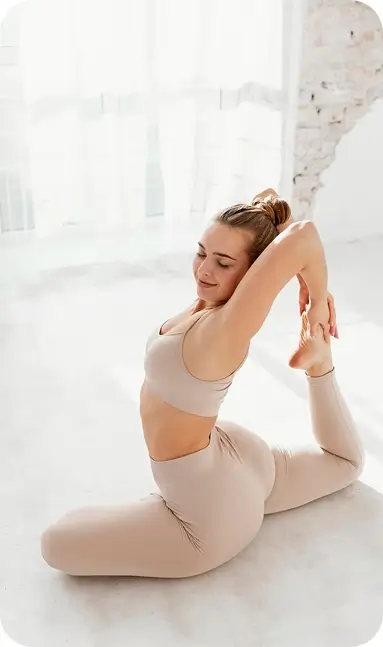
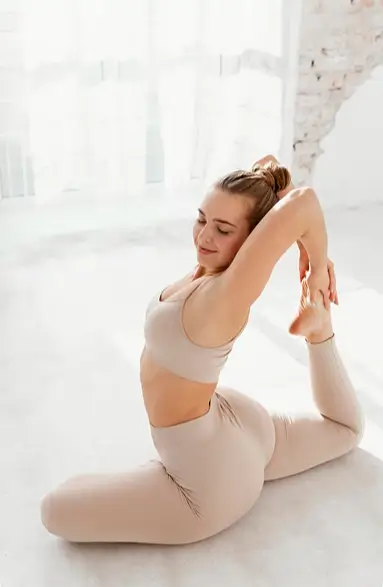
[UX/UI] - Measurement corrections in the layout

diff --git a/components/ui/HomeHero/HomeHeroOn/HomeHeroOn.tsx b/components/ui/HomeHero/HomeHeroOn/HomeHeroOn.tsx
@@ -1,26 +1,38 @@
 "use client";
-import Image from 'next/image';
-import React from 'react';
-import { BtnRound } from '../../buttons/BtnRound';
-import { TitleSection } from '../../TitleSection';
-import { TextSection } from '../../TextSection';
+import Image from "next/image";
+import React from "react";
+import { BtnRound } from "../../buttons/BtnRound";
+import { TitleSection } from "../../TitleSection";
+import { TextSection } from "../../TextSection";
 
 /* export type HomeHeroOnProps = {
       // types...
 } */
 
-const HomeHeroOn: React.FC = ({ }) => {
-      return (
-            <section className=" relative grid grid-cols-1 sm:grid-cols-2 justify-items-center  sm:justify-items-start gap-5  pt-12 sm:pt-30  ">
-                  <TitleSection text=' &ldquo;Uniting the Body, Mind, and Spirit Through the Practice of Yoga&rdquo; ' className='absolute z-2000 sm:self-center sm:static top-20' />
-                  <TextSection text=' Yoga is a multifaceted discipline that encompasses physical, mental, and spiritual aspects. It is based on the concept of the interconnectedness of body, mind, and spirit, and aims to promote balance and harmony within oneself and with the world around us. ' className='hidden sm:block sm:self-center' />
-                  <section className="  relative sm:justify-self-center sm:col-start-2  sm:row-start-1 sm:row-span-3 md:justify-self-end mt-18 sm:mt-0  w-full max-w-121.5  h-161.75 ">
-                        <Image className=' object-cover md:object-contain md:object-right rounded-2xl ' fill src='/images/image_home/image.webp' alt='Image home hero' quality={100} />
-                  </section>
-                  <section className=" sm:self-center ">
-                        <BtnRound text='Read More' variant='right' />
-                  </section>
-            </section>
-      );
+const HomeHeroOn: React.FC = ({}) => {
+  return (
+    <section className=" relative grid grid-cols-1 sm:grid-cols-2 justify-items-center sm:justify-items-start gap-5     ">
+      <TitleSection
+        text=" &ldquo;Uniting the Body, Mind, and Spirit Through the Practice of Yoga&rdquo; "
+        className="absolute z-2000 2xl:w-171.75  sm:self-center sm:static top-8"
+      />
+      <TextSection
+        text=" Yoga is a multifaceted discipline that encompasses physical, mental, and spiritual aspects. It is based on the concept of the interconnectedness of body, mind, and spirit, and aims to promote balance and harmony within oneself and with the world around us. "
+        className="hidden sm:block sm:self-center"
+      />
+      <section className="  relative sm:justify-self-center sm:col-start-2  sm:row-start-1 sm:row-span-3 md:justify-self-end mt-18 sm:mt-0  w-full max-w-121.5  h-161.75 ">
+        <Image
+          className=" object-cover  md:object-right rounded-2xl "
+          fill
+          src="/images/image_home/image.webp"
+          alt="Image home hero"
+          quality={100}
+        />
+      </section>
+      <section className=" sm:self-center ">
+        <BtnRound text="Read More" variant="right" />
+      </section>
+    </section>
+  );
 };
 export default HomeHeroOn;

diff --git a/components/ui/navbar/NavLinks/NavLinks.tsx b/components/ui/navbar/NavLinks/NavLinks.tsx
@@ -45,12 +45,12 @@ const NavLinks: React.FC<NavLinksProps> = ({ toggleMenu }) => {
       };
 
       return (
-            <nav className=" flex flex-col md:flex-row items-center gap-5 lg:gap-12 font-lora text-textMenuMobile "  >
-                  <Link className=' md:hover:shadow-md/20 md:px-3 md:rounded-lg md:hover:scale-102 md:hover:-translate-y-0.5  transition-all duration-100 ' href={'/'} onClick={(e) => handleClick(e, "home")} replace> Home </Link>
-                  <Link className=' md:hover:shadow-md/20 md:px-3 md:rounded-lg md:hover:scale-102 md:hover:-translate-y-0.5  transition-all duration-100 ' href={'#teachers'} onClick={(e) => handleClick(e, "teachers")}> Teachers </Link>
-                  <Link className=' md:hover:shadow-md/20 md:px-3 md:rounded-lg md:hover:scale-102 md:hover:-translate-y-0.5  transition-all duration-100 ' href={'#timetable'} onClick={(e) => handleClick(e, "timetable")}> Timetable </Link>
-                  <Link className=' md:hover:shadow-md/20 md:px-3 md:rounded-lg md:hover:scale-102 md:hover:-translate-y-0.5  transition-all duration-100 ' href={'#types'} onClick={(e) => handleClick(e, "types")}> Types of yoga </Link>
-                  <Link className=' md:hover:shadow-md/20 md:px-3 md:rounded-lg md:hover:scale-102 md:hover:-translate-y-0.5  transition-all duration-100 ' href={'#contact'} onClick={(e) => handleClick(e, "contact")}> Contacts</Link>
+            <nav className=" flex flex-col md:flex-row md:justify-center items-center lg:gap-5 text-sm lg:text-base font-lora text-textMenuMobile "  >
+                  <Link className=' px-3 md:hover:shadow-md/20 md:rounded-lg md:hover:scale-102 md:hover:-translate-y-0.5  transition-all duration-100 ' href={'/'} onClick={(e) => handleClick(e, "home")} replace> Home </Link>
+                  <Link className=' px-3 md:hover:shadow-md/20 md:rounded-lg md:hover:scale-102 md:hover:-translate-y-0.5  transition-all duration-100 ' href={'#teachers'} onClick={(e) => handleClick(e, "teachers")}> Teachers </Link>
+                  <Link className=' px-3 md:hover:shadow-md/20 md:rounded-lg md:hover:scale-102 md:hover:-translate-y-0.5  transition-all duration-100 ' href={'#timetable'} onClick={(e) => handleClick(e, "timetable")}> Timetable </Link>
+                  <Link className=' px-3 md:hover:shadow-md/20 md:rounded-lg md:hover:scale-102 md:hover:-translate-y-0.5  transition-all duration-100 ' href={'#types'} onClick={(e) => handleClick(e, "types")}> Types of yoga </Link>
+                  <Link className=' px-3 md:hover:shadow-md/20 md:rounded-lg md:hover:scale-102 md:hover:-translate-y-0.5  transition-all duration-100 ' href={'#contact'} onClick={(e) => handleClick(e, "contact")}> Contacts</Link>
             </nav>
       );
 };

diff --git a/components/sections/section_timetable/page.tsx b/components/sections/section_timetable/page.tsx
@@ -9,9 +9,9 @@ import Image from "next/image";
 export default function SectionTimetable() {
   return (
   <>
-  <section id="timetable" className=" pt-10 ">
+  <section id="timetable" className="  ">
       <TitleSection text="Join to our class, see our schedule" />
-      <TextSection text="Start your day energized with our early morning classes or relax and unwind during our evening sessions. Join our skilled instructors in our spacious studio and deepen your yoga practice while connecting with a community of like-minded individuals." className=" pt-4 " />
+      <TextSection text="Start your day energized with our early morning classes or relax and unwind during our evening sessions. Join our skilled instructors in our spacious studio and deepen your yoga practice while connecting with a community of like-minded individuals." className=" pt-4  max-w-215 " />
       <section className=" flex flex-col md:flex-row-reverse justify-between md:gap-20 pt-12 ">
             <section className=" relative w-full lg:w-1/2   rounded-2xl  h-116.25 xl:h-140  overflow-hidden ">
                   <Image className=" object-cover     " src='/images/image_timetable/image_timeTable.webp' alt="" fill />

diff --git a/components/ui/HomeHero/HomeHeroUnder/HomeHeroUnder.tsx b/components/ui/HomeHero/HomeHeroUnder/HomeHeroUnder.tsx
@@ -11,7 +11,7 @@ import { TextSection } from "../../TextSection";
 
 const HomeHeroUnder: React.FC = ({}) => {
   return (
-    <section className=" pt-20 grid grid-cols-1 sm:grid-cols-2 gap-10 items-center  ">
+    <section className=" pt-15 md:pt-34 grid grid-cols-1 sm:grid-cols-2 gap-10 items-center  ">
       <TitleSection
         text=" Practice Anytime, Anywhere with our Online Classes "
         className=""
@@ -34,9 +34,9 @@ const HomeHeroUnder: React.FC = ({}) => {
           <BtnPrimary text="Trial Lession" />
         </section>
       </section>
-      <section className=" relative sm:col-star-2  sm:row-start-1 sm:row-span-3  w-full h-100 sm:h-120 lg:h-150     ">
+      <section className=" relative sm:col-star-2  sm:row-start-1 sm:row-span-3 lg:max-w-150 h-100 sm:h-120 lg:h-150     ">
         <Image
-          className=" object-contain "
+          className=" object-cover rounded-2xl "
           src={"/images/image_home/image_2.webp"}
           alt="Segunda imagen de seccion home"
           fill

diff --git a/app/layout.tsx b/app/layout.tsx
@@ -31,11 +31,11 @@ export default function RootLayout({
 }>) {
       return (
             <html lang="en" className={`  ${montserrat.variable} ${lora.variable} ${storyScript.variable} scroll-smooth `}>
-                  <body className=" py-3 px-5 md:px-12 xl:px-25 2xl:px-50 lg:py-8 md:bg-[url(/images/background_desktop.png)] bg-size-[100%] bg-repeat ">
+                  <body className="  mt-25 md:mt-35 px-5 md:px-8 xl:px-25 2xl:px-50  md:bg-[url(/images/background_desktop.png)] bg-size-[100%] bg-repeat ">
                         <header className=" ">
                               <NavBar />
                         </header>
-                        <main className=" pt-20  ">
+                        <main className="  ">
                         {children}
                         </main>
                   </body>

diff --git a/components/ui/HomeHero/HomeLessons/HomeLessons.tsx b/components/ui/HomeHero/HomeLessons/HomeLessons.tsx
@@ -10,7 +10,7 @@ import { LessonsGallery } from "../components/LessonsGallery";
 
 const HomeLessons: React.FC = ({ }) => {
       return (
-            <section className=" py-36 ">
+            <section className=" py-20 md:py-34 ">
                   <section className="flex flex-col gap-8">
                         <TitleSection text="Our lessons" />
                         <TextSection text="Yoga lessons typically involve physical postures, breathing exercises, and meditation to promote physical strength, flexibility, reduce stress, and enhance well-being. Classes can vary in style and intensity, and it's essential to consult with a qualified yoga teacher before starting any practice." className=" max-w-215 " />

diff --git a/components/ui/navbar/NavBar/NavBar.tsx b/components/ui/navbar/NavBar/NavBar.tsx
@@ -16,7 +16,7 @@ const NavBar: React.FC = ({ }) => {
             setOpenMenu(!openMenu);
       };
       return (
-            <section className=" fixed top-0 left-0 z-5000 flex justify-between items-center py-3 px-5 md:px-12 xl:px-25 2xl:px-50 lg:py-6 w-full  bg-white/70 md:bg-white/20 backdrop-blur-xl ">
+            <section className=" fixed top-0 left-0 z-5000 flex justify-between items-center py-6 px-5 md:px-8 xl:px-25 2xl:px-50 w-full  bg-white/70 md:bg-white/20 backdrop-blur-xl ">
                   <Logo />
                   <DesktopMenu />
                   <MobileMenu openMenu={openMenu} toggleMenu={toggleMenu} />

diff --git a/components/ui/TitleSection/TitleSection.tsx b/components/ui/TitleSection/TitleSection.tsx
@@ -8,7 +8,7 @@ export type TitleSectionProps = {
 
 const TitleSection: React.FC<TitleSectionProps>  = ({ text, className }) => {
 	return (
-		<h2 className={` text-2xl md:text-4xl font-lora uppercase text-textTitlePrimary ${className}`}> {text} </h2>
+		<h2 className={` text-2xl md:text-3xl 2xl:text-5xl font-lora uppercase text-textTitlePrimary ${className}`}> {text} </h2>
 	);
 };
 
